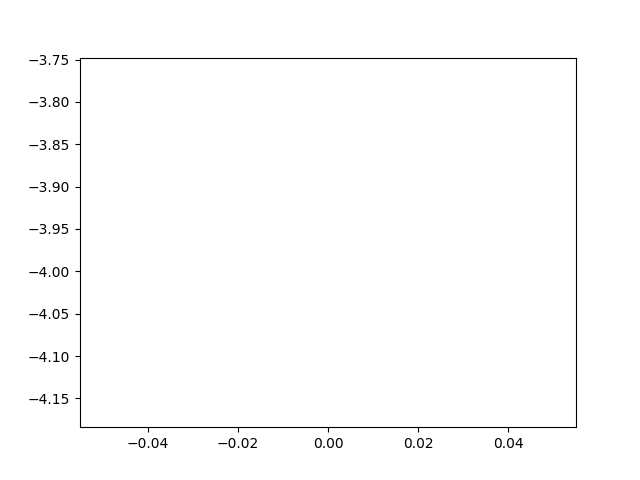
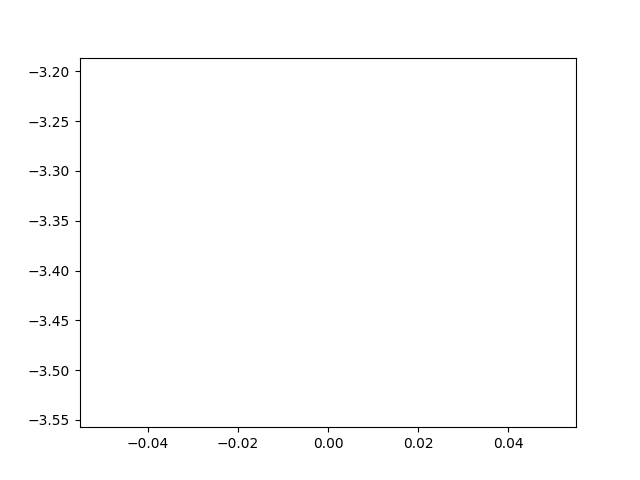
noise during training

diff --git a/noise2.py b/noise2.py
@@ -66,8 +66,11 @@ if __name__=="__main__":
             batch[0][:][0] += np.random.normal(2, 2, len(batch[0][0]))
             l1, l2, l = model.train_batch(batch)
 
-            if i==0:
-                losses.append(l1)
+            losses.append(l1)
+
+            #if i==0:
+                #print("l1 := ", l1)
+                #losses.append(l1)
             
             range_loss1 += l1
             range_loss2 += l2
@@ -82,5 +85,6 @@ if __name__=="__main__":
         evaluate()
 
     print("starting plot -----------------------------------------------------------------------------------")
+    print("losses := ", losses)
     plt.plot(losses)
     plt.savefig("figures/train_loss.png")
